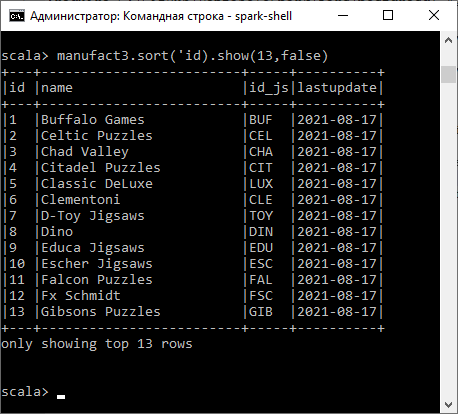
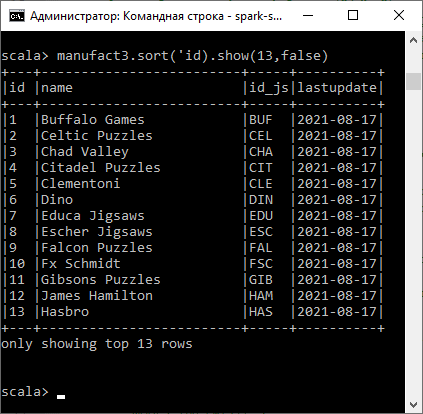
code correction

diff --git a/Loading_the_manufacturers.md b/Loading_the_manufacturers.md
@@ -28,7 +28,7 @@ Create a transformation that loads the manufacturers dimension: _lk_manufacturer
 
 //Use window for generating technical key
 	import org.apache.spark.sql.expressions.Window
-	val id=Window.partitionBy('dummy).orderBy('name)
+	val id=Window.partitionBy('dummy).orderBy('id_js)
 	val manufact2=manufact1.withColumn("id", rank over id)
 
 //Fit dataframe to dataWarehouse table:
